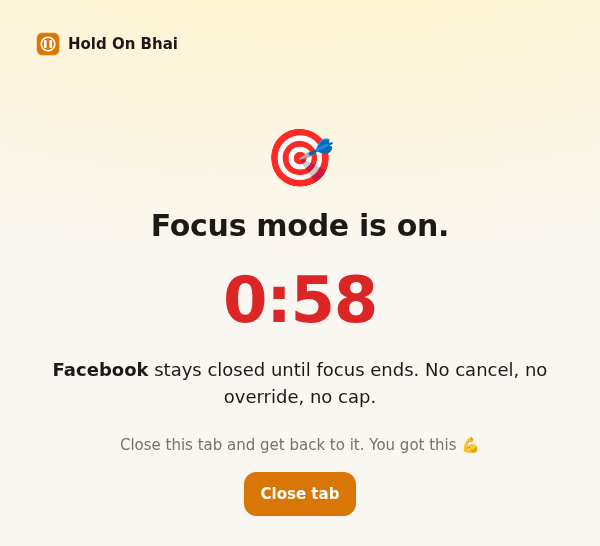
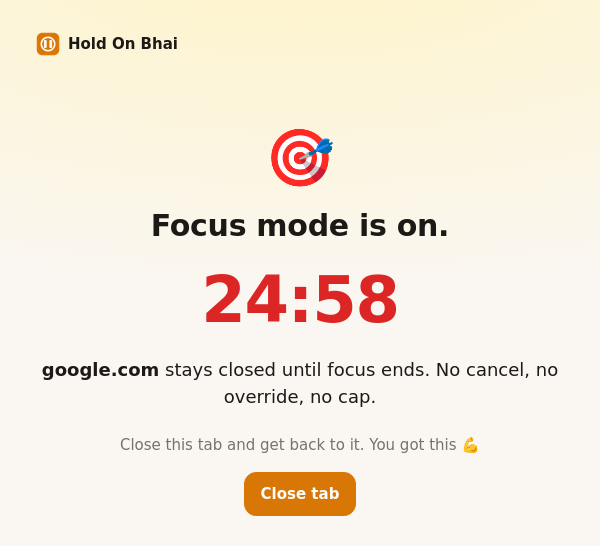
Refresh the demo GIF and focus screenshots for the allowlist
- demo.gif rebuilt from the new demo video (focus slide mentions the allowlist)
- New focus-settings.png, updated focus-block.png and popup.png
- Focus block screen shows the host without a leading www.

Changed region(s): [[0.06, 0.6538, 0.93, 0.7161], [0.33, 0.4982, 0.66, 0.5916]]

diff --git a/extension/background.js b/extension/background.js
@@ -100,7 +100,7 @@ function anySiteForUrl(settings, url) {
 
 // Any other website during Focus: a stand-in "site" so it lands on the focus block screen.
 function focusWebSite(settings, url) {
-  return focusClosesUrl(settings.focusAllow, url) ? { id: "_focusweb", name: new URL(url).hostname, enabled: true } : null;
+  return focusClosesUrl(settings.focusAllow, url) ? { id: "_focusweb", name: new URL(url).hostname.replace(/^www\./, ""), enabled: true } : null;
 }
 
 // The site a URL belongs to, plus the block on it (if any).
@@ -1504,7 +1504,7 @@ async function gateInfo(siteId, target) {
   if (siteId === "_focusweb") {
     let name = "This site";
     try {
-      name = new URL(target).hostname || name;
+      name = new URL(target).hostname.replace(/^www\./, "") || name;
     } catch {}
     const closed = focusActive(state, now) && focusClosesUrl(state.settings.focusAllow, target || "");
     return { ok: true, site: { id: "_focusweb", name, enabled: true }, block: closed ? blockFor(state, {}, now) : null, released: !closed };

diff --git a/README.md b/README.md
@@ -186,8 +186,12 @@ Until the timer ends:
 - The toolbar icon shows the minutes left in red.
 
 <p align="center">
+  <img src="docs/screenshots/focus-settings.png" width="640" alt="Settings: the Open during Focus allowlist with localhost, 127.0.0.1, github.com, docs.google.com and stackoverflow.com">
+</p>
+
+<p align="center">
   <img src="docs/screenshots/popup-focus-on.png" width="340" alt="Toolbar popup during Focus mode with a big countdown">
-  <img src="docs/screenshots/focus-block.png" width="420" alt="Focus mode block screen with a big countdown">
+  <img src="docs/screenshots/focus-block.png" width="420" alt="Focus mode block screen: google.com stays closed until focus ends, with a big countdown">
 </p>
 
 ---
